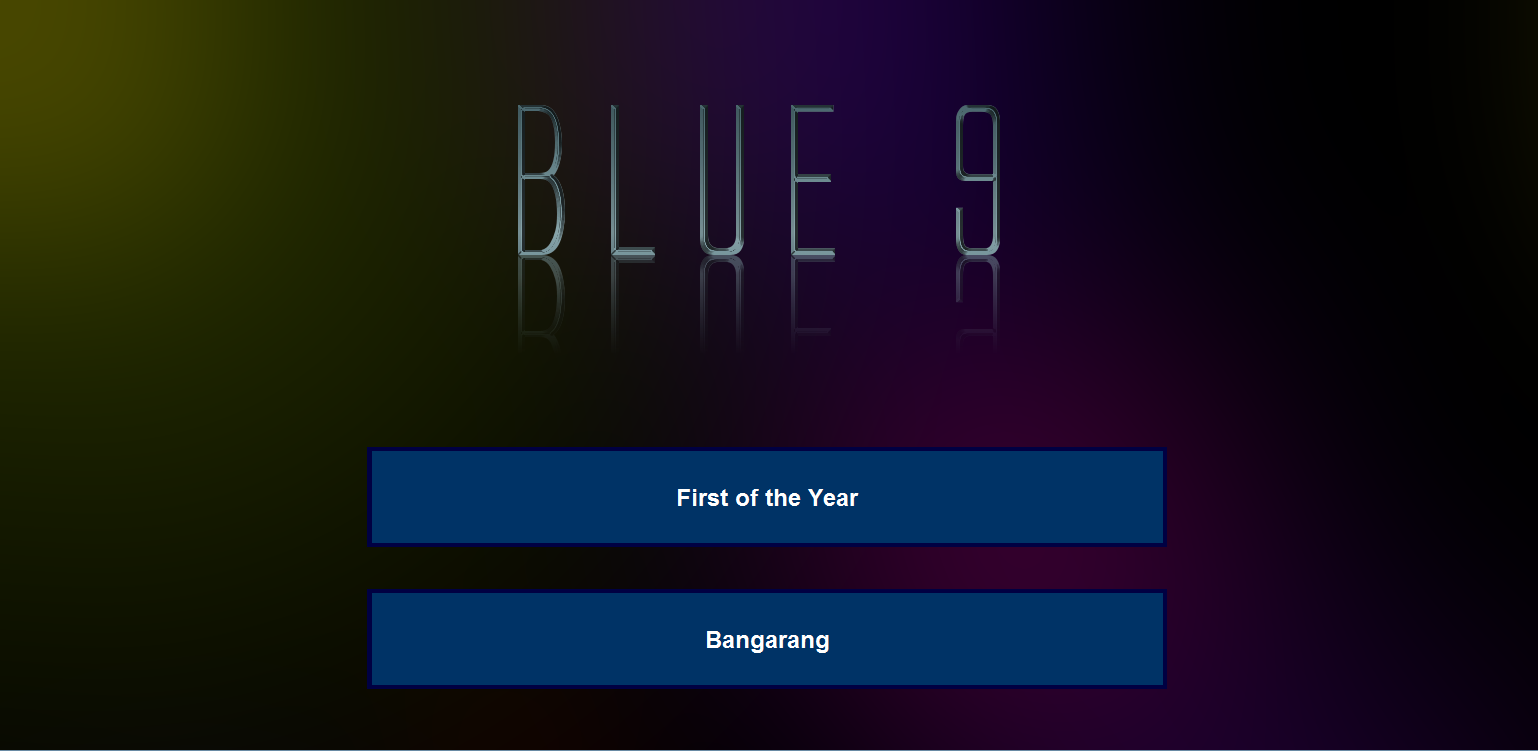
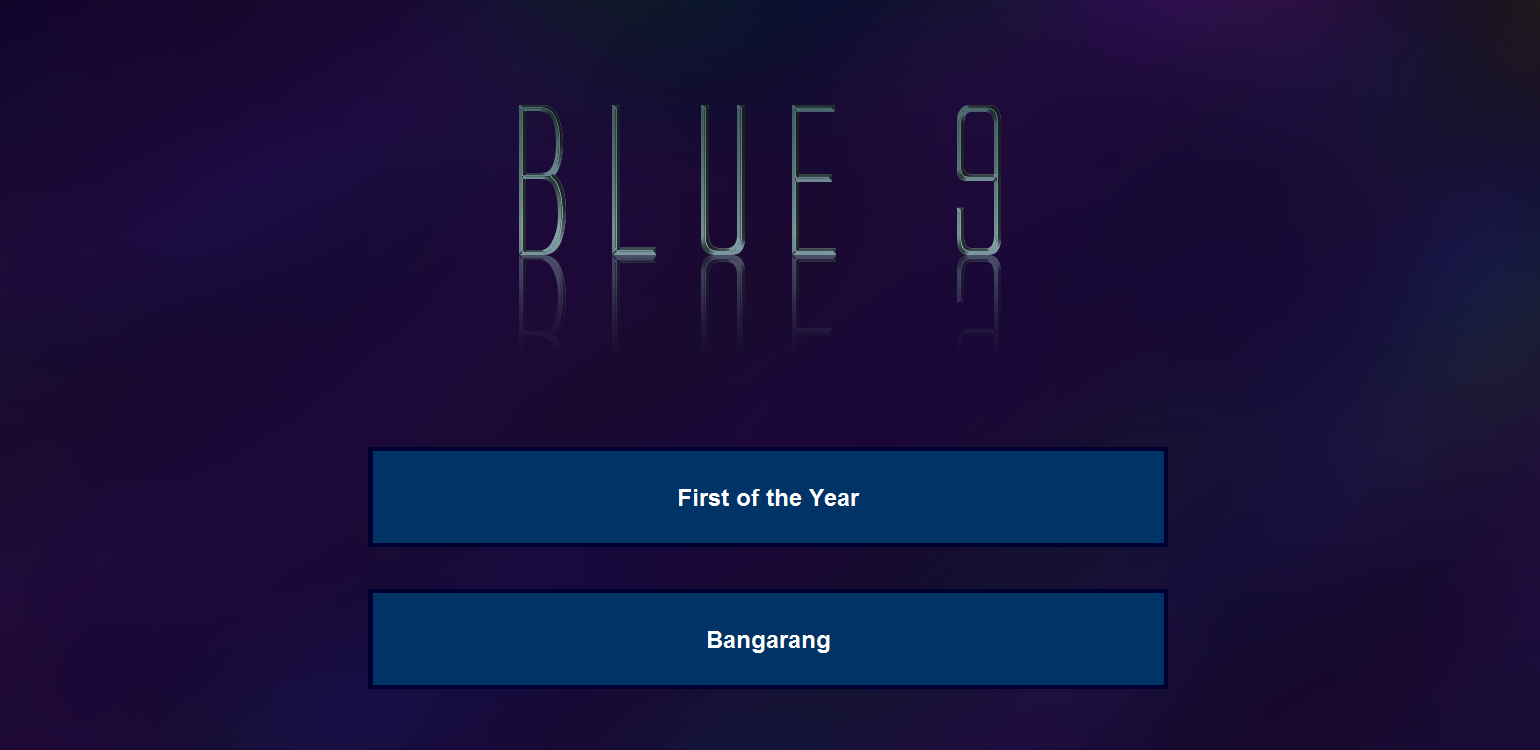
Updated menu

diff --git a/src/Menu.java b/src/Menu.java
@@ -1,5 +1,4 @@
 // Copyright GM.
-// bg.png acquired from http://i.imgur.com/3luEagi.png
 
 import java.awt.Color;
 import java.awt.Dimension;
@@ -59,7 +58,7 @@ public class Menu extends JPanel {
 		button.setFont(new Font("Arial", Font.BOLD, 24));
 		button.setForeground(Color.WHITE);
 		button.setBackground(new Color(0, 51, 102));
-		button.setBorder(BorderFactory.createLineBorder(new Color(0, 0, 66), 4));
+		button.setBorder(BorderFactory.createLineBorder(new Color(0, 0, 48), 4));
 		button.setAlignmentX(JButton.CENTER_ALIGNMENT);
 		button.setPreferredSize(new Dimension(800, 100));
 		button.setMaximumSize(new Dimension(800, 100));
